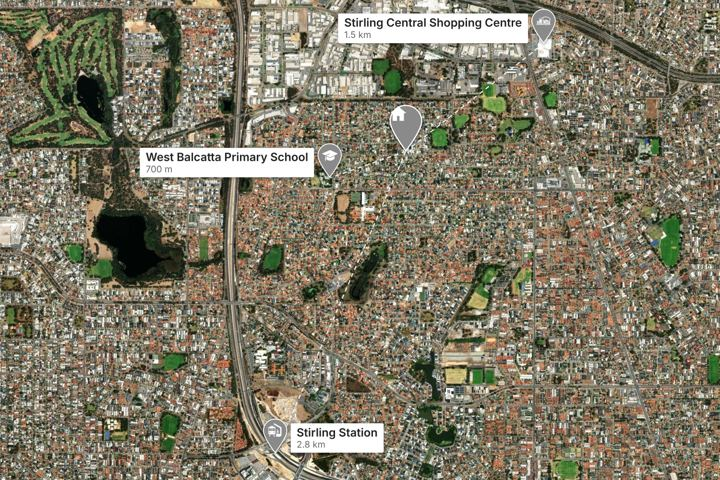
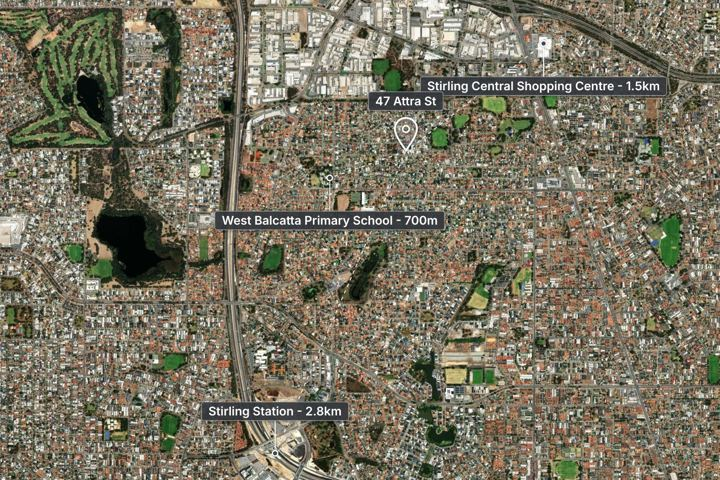
47 Attra St: Simple template, 5 pins per photo + matching satellite map (Jenny)
Claude-Session: https://claude.ai/code/session_01A5qGg2LnJXxgSHoMQFvEEG

diff --git a/aerials/27-oct-2026/index.html b/aerials/27-oct-2026/index.html
@@ -5,4 +5,4 @@ body{margin:0;background:var(--bg);color:var(--fg);font:15px/1.45 system-ui,-app
 header,section{max-width:1400px;margin:auto;padding:18px 16px}h1{font-size:20px;margin:0}h2{font-size:17px;margin:0}header p,section p{color:var(--mut);margin:4px 0 0}
 .ed{margin-left:10px;color:var(--acc);font-weight:600;text-decoration:none}a{color:var(--acc)}
 .g{display:grid;grid-template-columns:repeat(auto-fill,minmax(280px,1fr));gap:8px;margin-top:10px}.g img{width:100%;display:block;border-radius:4px}</style></head>
-<body><header><h1>Drone edits — Tue 27 Oct 2026</h1><p>Tap a photo for full size. <b>Edit</b> opens the job in the <a href="/pins/">editor</a> with all its pins and settings.</p></header><section><h2>218 North Beach Dr, Tuart Hill</h2><p>Stephanie Briers · Professionals · 13 photos <a class="ed" href="/pins/?open=27-oct-2026/218_north_beach_dr">Edit</a><a class="ed" href="/pins/?open=27-oct-2026/218_north_beach_dr__nadir">Edit top-down</a></p><div class="g"><a href="218_north_beach_dr/dji_fly_20261027_150818_0904_1793084705926_photo.jpg?v=1793133531" target="_blank"><img loading="lazy" src="218_north_beach_dr/t/dji_fly_20261027_150818_0904_1793084705926_photo.jpg?v=1793133531" alt=""></a><a href="218_north_beach_dr/dji_fly_20261027_150852_0906_1793084703012_photo.jpg?v=1793133531" target="_blank"><img loading="lazy" src="218_north_beach_dr/t/dji_fly_20261027_150852_0906_1793084703012_photo.jpg?v=1793133531" alt=""></a><a href="218_north_beach_dr/dji_fly_20261027_150910_0907_1793084701634_photo.jpg?v=1793133531" target="_blank"><img loading="lazy" src="218_north_beach_dr/t/dji_fly_20261027_150910_0907_1793084701634_photo.jpg?v=1793133531" alt=""></a><a href="218_north_beach_dr/dji_fly_20261027_150938_0908_1793084700212_photo.jpg?v=1793133531" target="_blank"><img loading="lazy" src="218_north_beach_dr/t/dji_fly_20261027_150938_0908_1793084700212_photo.jpg?v=1793133531" alt=""></a><a href="218_north_beach_dr/dji_fly_20261027_150948_0909_1793084698807_photo.jpg?v=1793133531" target="_blank"><img loading="lazy" src="218_north_beach_dr/t/dji_fly_20261027_150948_0909_1793084698807_photo.jpg?v=1793133531" alt=""></a><a href="218_north_beach_dr/dji_fly_20261027_151000_0910_1793084697396_photo.jpg?v=1793133531" target="_blank"><img loading="lazy" src="218_north_beach_dr/t/dji_fly_20261027_151000_0910_1793084697396_photo.jpg?v=1793133531" alt=""></a><a href="218_north_beach_dr/dji_fly_20261027_151032_0911_1793084695909_photo.jpg?v=1793133531" target="_blank"><img loading="lazy" src="218_north_beach_dr/t/dji_fly_20261027_151032_0911_1793084695909_photo.jpg?v=1793133531" alt=""></a><a href="218_north_beach_dr/dji_fly_20261027_151100_0912_1793084694451_photo.jpg?v=1793133531" target="_blank"><img loading="lazy" src="218_north_beach_dr/t/dji_fly_20261027_151100_0912_1793084694451_photo.jpg?v=1793133531" alt=""></a><a href="218_north_beach_dr/dji_fly_20261027_151114_0913_1793084693051_photo.jpg?v=1793133531" target="_blank"><img loading="lazy" src="218_north_beach_dr/t/dji_fly_20261027_151114_0913_1793084693051_photo.jpg?v=1793133531" alt=""></a><a href="218_north_beach_dr/dji_fly_20261027_151128_0914_1793084691646_photo.jpg?v=1793133531" target="_blank"><img loading="lazy" src="218_north_beach_dr/t/dji_fly_20261027_151128_0914_1793084691646_photo.jpg?v=1793133531" alt=""></a><a href="218_north_beach_dr/dji_fly_20261027_151138_0915_1793084690227_photo.jpg?v=1793133531" target="_blank"><img loading="lazy" src="218_north_beach_dr/t/dji_fly_20261027_151138_0915_1793084690227_photo.jpg?v=1793133531" alt=""></a><a href="218_north_beach_dr/dji_fly_20261027_151152_0916_1793084688823_photo.jpg?v=1793133531" target="_blank"><img loading="lazy" src="218_north_beach_dr/t/dji_fly_20261027_151152_0916_1793084688823_photo.jpg?v=1793133531" alt=""></a><a href="218_north_beach_dr/dji_fly_20261027_151200_0917_1793084687391_photo.jpg?v=1793133531" target="_blank"><img loading="lazy" src="218_north_beach_dr/t/dji_fly_20261027_151200_0917_1793084687391_photo.jpg?v=1793133531" alt=""></a></div></section><section><h2>41 St Kilda Rd, Balga</h2><p>Emma Scharf · Professionals · 9 photos <a class="ed" href="/pins/?open=27-oct-2026/41_st_kilda_rd">Edit</a><a class="ed" href="/pins/?open=27-oct-2026/41_st_kilda_rd__nadir">Edit top-down</a></p><div class="g"><a href="41_st_kilda_rd/dji_fly_20261027_120152_0892_1793084725908_photo.jpg?v=1793133538" target="_blank"><img loading="lazy" src="41_st_kilda_rd/t/dji_fly_20261027_120152_0892_1793084725908_photo.jpg?v=1793133538" alt=""></a><a href="41_st_kilda_rd/dji_fly_20261027_120208_0893_1793084724563_photo.jpg?v=1793133538" target="_blank"><img loading="lazy" src="41_st_kilda_rd/t/dji_fly_20261027_120208_0893_1793084724563_photo.jpg?v=1793133538" alt=""></a><a href="41_st_kilda_rd/dji_fly_20261027_120238_0894_1793084723192_photo.jpg?v=1793133538" target="_blank"><img loading="lazy" src="41_st_kilda_rd/t/dji_fly_20261027_120238_0894_1793084723192_photo.jpg?v=1793133538" alt=""></a><a href="41_st_kilda_rd/dji_fly_20261027_120258_0895_1793084721818_photo.jpg?v=1793133538" target="_blank"><img loading="lazy" src="41_st_kilda_rd/t/dji_fly_20261027_120258_0895_1793084721818_photo.jpg?v=1793133538" alt=""></a><a href="41_st_kilda_rd/dji_fly_20261027_120318_0896_1793084720496_photo.jpg?v=1793133538" target="_blank"><img loading="lazy" src="41_st_kilda_rd/t/dji_fly_20261027_120318_0896_1793084720496_photo.jpg?v=1793133538" alt=""></a><a href="41_st_kilda_rd/dji_fly_20261027_120334_0897_1793084719060_photo.jpg?v=1793133538" target="_blank"><img loading="lazy" src="41_st_kilda_rd/t/dji_fly_20261027_120334_0897_1793084719060_photo.jpg?v=1793133538" alt=""></a><a href="41_st_kilda_rd/dji_fly_20261027_120400_0898_1793084717514_photo.jpg?v=1793133538" target="_blank"><img loading="lazy" src="41_st_kilda_rd/t/dji_fly_20261027_120400_0898_1793084717514_photo.jpg?v=1793133538" alt=""></a><a href="41_st_kilda_rd/dji_fly_20261027_120412_0899_1793084715431_photo.jpg?v=1793133538" target="_blank"><img loading="lazy" src="41_st_kilda_rd/t/dji_fly_20261027_120412_0899_1793084715431_photo.jpg?v=1793133538" alt=""></a><a href="41_st_kilda_rd/dji_fly_20261027_123924_0900_1793084713356_photo.jpg?v=1793133538" target="_blank"><img loading="lazy" src="41_st_kilda_rd/t/dji_fly_20261027_123924_0900_1793084713356_photo.jpg?v=1793133538" alt=""></a></div></section><section><h2>4/17 Forest Hill Dr, Kingsley</h2><p>James Kennedy · Professionals Kingsley · 8 photos <a class="ed" href="/pins/?open=27-oct-2026/4_17_forest_hill_dr">Edit</a></p><div class="g"><a href="4_17_forest_hill_dr/DJI_20261027190736_0143_D.jpg?v=1793169490" target="_blank"><img loading="lazy" src="4_17_forest_hill_dr/t/DJI_20261027190736_0143_D.jpg?v=1793169490" alt=""></a><a href="4_17_forest_hill_dr/DJI_20261027190751_0144_D.jpg?v=1793169490" target="_blank"><img loading="lazy" src="4_17_forest_hill_dr/t/DJI_20261027190751_0144_D.jpg?v=1793169490" alt=""></a><a href="4_17_forest_hill_dr/DJI_20261027190811_0145_D.jpg?v=1793169490" target="_blank"><img loading="lazy" src="4_17_forest_hill_dr/t/DJI_20261027190811_0145_D.jpg?v=1793169490" alt=""></a><a href="4_17_forest_hill_dr/DJI_20261027190831_0146_D.jpg?v=1793169490" target="_blank"><img loading="lazy" src="4_17_forest_hill_dr/t/DJI_20261027190831_0146_D.jpg?v=1793169490" alt=""></a><a href="4_17_forest_hill_dr/DJI_20261027190850_0147_D.jpg?v=1793169490" target="_blank"><img loading="lazy" src="4_17_forest_hill_dr/t/DJI_20261027190850_0147_D.jpg?v=1793169490" alt=""></a><a href="4_17_forest_hill_dr/DJI_20261027190910_0148_D.jpg?v=1793169490" target="_blank"><img loading="lazy" src="4_17_forest_hill_dr/t/DJI_20261027190910_0148_D.jpg?v=1793169490" alt=""></a><a href="4_17_forest_hill_dr/DJI_20261027190924_0149_D.jpg?v=1793169490" target="_blank"><img loading="lazy" src="4_17_forest_hill_dr/t/DJI_20261027190924_0149_D.jpg?v=1793169490" alt=""></a><a href="4_17_forest_hill_dr/DJI_20261027190945_0150_D.jpg?v=1793169490" target="_blank"><img loading="lazy" src="4_17_forest_hill_dr/t/DJI_20261027190945_0150_D.jpg?v=1793169490" alt=""></a></div></section><section><h2>18 Wonderboom Way, Forrestfield</h2><p>David Huynh · Harcourts · 8 photos <a class="ed" href="/pins/?open=27-oct-2026/18_wonderboom_way">Edit</a><a class="ed" href="/pins/?open=27-oct-2026/18_wonderboom_way__nadir">Edit top-down</a></p><div class="g"><a href="18_wonderboom_way/DJI_20261027153704_0025_D.jpg?v=1793169497" target="_blank"><img loading="lazy" src="18_wonderboom_way/t/DJI_20261027153704_0025_D.jpg?v=1793169497" alt=""></a><a href="18_wonderboom_way/DJI_20261027153728_0026_D.jpg?v=1793169497" target="_blank"><img loading="lazy" src="18_wonderboom_way/t/DJI_20261027153728_0026_D.jpg?v=1793169497" alt=""></a><a href="18_wonderboom_way/DJI_20261027153750_0027_D.jpg?v=1793169497" target="_blank"><img loading="lazy" src="18_wonderboom_way/t/DJI_20261027153750_0027_D.jpg?v=1793169497" alt=""></a><a href="18_wonderboom_way/DJI_20261027153805_0028_D.jpg?v=1793169497" target="_blank"><img loading="lazy" src="18_wonderboom_way/t/DJI_20261027153805_0028_D.jpg?v=1793169497" alt=""></a><a href="18_wonderboom_way/DJI_20261027153822_0029_D.jpg?v=1793169497" target="_blank"><img loading="lazy" src="18_wonderboom_way/t/DJI_20261027153822_0029_D.jpg?v=1793169497" alt=""></a><a href="18_wonderboom_way/DJI_20261027153841_0030_D.jpg?v=1793169497" target="_blank"><img loading="lazy" src="18_wonderboom_way/t/DJI_20261027153841_0030_D.jpg?v=1793169497" alt=""></a><a href="18_wonderboom_way/DJI_20261027153857_0031_D.jpg?v=1793169497" target="_blank"><img loading="lazy" src="18_wonderboom_way/t/DJI_20261027153857_0031_D.jpg?v=1793169497" alt=""></a><a href="18_wonderboom_way/DJI_20261027153910_0032_D.jpg?v=1793169497" target="_blank"><img loading="lazy" src="18_wonderboom_way/t/DJI_20261027153910_0032_D.jpg?v=1793169497" alt=""></a></div></section><section><h2>47 Attra St, Balcatta</h2><p>Jenny Fry · City to Surf · 5 photos <a class="ed" href="/pins/?open=27-oct-2026/47_attra_st">Edit</a><a class="ed" href="/pins/?open=27-oct-2026/47_attra_st__nadir">Edit top-down</a></p><div class="g"><a href="47_attra_st/DJI_20261027201407_0152_D.jpg?v=1793186544" target="_blank"><img loading="lazy" src="47_attra_st/t/DJI_20261027201407_0152_D.jpg?v=1793186544" alt=""></a><a href="47_attra_st/DJI_20261027201444_0154_D.jpg?v=1793186543" target="_blank"><img loading="lazy" src="47_attra_st/t/DJI_20261027201444_0154_D.jpg?v=1793186543" alt=""></a><a href="47_attra_st/DJI_20261027201539_0158_D.jpg?v=1793186543" target="_blank"><img loading="lazy" src="47_attra_st/t/DJI_20261027201539_0158_D.jpg?v=1793186543" alt=""></a><a href="47_attra_st/DJI_20261027201608_0160_D.jpg?v=1793186543" target="_blank"><img loading="lazy" src="47_attra_st/t/DJI_20261027201608_0160_D.jpg?v=1793186543" alt=""></a><a href="47_attra_st/satellite_map.jpg?v=1793186543" target="_blank"><img loading="lazy" src="47_attra_st/t/satellite_map.jpg?v=1793186543" alt=""></a></div></section></body></html>
+<body><header><h1>Drone edits — Tue 27 Oct 2026</h1><p>Tap a photo for full size. <b>Edit</b> opens the job in the <a href="/pins/">editor</a> with all its pins and settings.</p></header><section><h2>218 North Beach Dr, Tuart Hill</h2><p>Stephanie Briers · Professionals · 13 photos <a class="ed" href="/pins/?open=27-oct-2026/218_north_beach_dr">Edit</a><a class="ed" href="/pins/?open=27-oct-2026/218_north_beach_dr__nadir">Edit top-down</a></p><div class="g"><a href="218_north_beach_dr/dji_fly_20261027_150818_0904_1793084705926_photo.jpg?v=1793133531" target="_blank"><img loading="lazy" src="218_north_beach_dr/t/dji_fly_20261027_150818_0904_1793084705926_photo.jpg?v=1793133531" alt=""></a><a href="218_north_beach_dr/dji_fly_20261027_150852_0906_1793084703012_photo.jpg?v=1793133531" target="_blank"><img loading="lazy" src="218_north_beach_dr/t/dji_fly_20261027_150852_0906_1793084703012_photo.jpg?v=1793133531" alt=""></a><a href="218_north_beach_dr/dji_fly_20261027_150910_0907_1793084701634_photo.jpg?v=1793133531" target="_blank"><img loading="lazy" src="218_north_beach_dr/t/dji_fly_20261027_150910_0907_1793084701634_photo.jpg?v=1793133531" alt=""></a><a href="218_north_beach_dr/dji_fly_20261027_150938_0908_1793084700212_photo.jpg?v=1793133531" target="_blank"><img loading="lazy" src="218_north_beach_dr/t/dji_fly_20261027_150938_0908_1793084700212_photo.jpg?v=1793133531" alt=""></a><a href="218_north_beach_dr/dji_fly_20261027_150948_0909_1793084698807_photo.jpg?v=1793133531" target="_blank"><img loading="lazy" src="218_north_beach_dr/t/dji_fly_20261027_150948_0909_1793084698807_photo.jpg?v=1793133531" alt=""></a><a href="218_north_beach_dr/dji_fly_20261027_151000_0910_1793084697396_photo.jpg?v=1793133531" target="_blank"><img loading="lazy" src="218_north_beach_dr/t/dji_fly_20261027_151000_0910_1793084697396_photo.jpg?v=1793133531" alt=""></a><a href="218_north_beach_dr/dji_fly_20261027_151032_0911_1793084695909_photo.jpg?v=1793133531" target="_blank"><img loading="lazy" src="218_north_beach_dr/t/dji_fly_20261027_151032_0911_1793084695909_photo.jpg?v=1793133531" alt=""></a><a href="218_north_beach_dr/dji_fly_20261027_151100_0912_1793084694451_photo.jpg?v=1793133531" target="_blank"><img loading="lazy" src="218_north_beach_dr/t/dji_fly_20261027_151100_0912_1793084694451_photo.jpg?v=1793133531" alt=""></a><a href="218_north_beach_dr/dji_fly_20261027_151114_0913_1793084693051_photo.jpg?v=1793133531" target="_blank"><img loading="lazy" src="218_north_beach_dr/t/dji_fly_20261027_151114_0913_1793084693051_photo.jpg?v=1793133531" alt=""></a><a href="218_north_beach_dr/dji_fly_20261027_151128_0914_1793084691646_photo.jpg?v=1793133531" target="_blank"><img loading="lazy" src="218_north_beach_dr/t/dji_fly_20261027_151128_0914_1793084691646_photo.jpg?v=1793133531" alt=""></a><a href="218_north_beach_dr/dji_fly_20261027_151138_0915_1793084690227_photo.jpg?v=1793133531" target="_blank"><img loading="lazy" src="218_north_beach_dr/t/dji_fly_20261027_151138_0915_1793084690227_photo.jpg?v=1793133531" alt=""></a><a href="218_north_beach_dr/dji_fly_20261027_151152_0916_1793084688823_photo.jpg?v=1793133531" target="_blank"><img loading="lazy" src="218_north_beach_dr/t/dji_fly_20261027_151152_0916_1793084688823_photo.jpg?v=1793133531" alt=""></a><a href="218_north_beach_dr/dji_fly_20261027_151200_0917_1793084687391_photo.jpg?v=1793133531" target="_blank"><img loading="lazy" src="218_north_beach_dr/t/dji_fly_20261027_151200_0917_1793084687391_photo.jpg?v=1793133531" alt=""></a></div></section><section><h2>41 St Kilda Rd, Balga</h2><p>Emma Scharf · Professionals · 9 photos <a class="ed" href="/pins/?open=27-oct-2026/41_st_kilda_rd">Edit</a><a class="ed" href="/pins/?open=27-oct-2026/41_st_kilda_rd__nadir">Edit top-down</a></p><div class="g"><a href="41_st_kilda_rd/dji_fly_20261027_120152_0892_1793084725908_photo.jpg?v=1793133538" target="_blank"><img loading="lazy" src="41_st_kilda_rd/t/dji_fly_20261027_120152_0892_1793084725908_photo.jpg?v=1793133538" alt=""></a><a href="41_st_kilda_rd/dji_fly_20261027_120208_0893_1793084724563_photo.jpg?v=1793133538" target="_blank"><img loading="lazy" src="41_st_kilda_rd/t/dji_fly_20261027_120208_0893_1793084724563_photo.jpg?v=1793133538" alt=""></a><a href="41_st_kilda_rd/dji_fly_20261027_120238_0894_1793084723192_photo.jpg?v=1793133538" target="_blank"><img loading="lazy" src="41_st_kilda_rd/t/dji_fly_20261027_120238_0894_1793084723192_photo.jpg?v=1793133538" alt=""></a><a href="41_st_kilda_rd/dji_fly_20261027_120258_0895_1793084721818_photo.jpg?v=1793133538" target="_blank"><img loading="lazy" src="41_st_kilda_rd/t/dji_fly_20261027_120258_0895_1793084721818_photo.jpg?v=1793133538" alt=""></a><a href="41_st_kilda_rd/dji_fly_20261027_120318_0896_1793084720496_photo.jpg?v=1793133538" target="_blank"><img loading="lazy" src="41_st_kilda_rd/t/dji_fly_20261027_120318_0896_1793084720496_photo.jpg?v=1793133538" alt=""></a><a href="41_st_kilda_rd/dji_fly_20261027_120334_0897_1793084719060_photo.jpg?v=1793133538" target="_blank"><img loading="lazy" src="41_st_kilda_rd/t/dji_fly_20261027_120334_0897_1793084719060_photo.jpg?v=1793133538" alt=""></a><a href="41_st_kilda_rd/dji_fly_20261027_120400_0898_1793084717514_photo.jpg?v=1793133538" target="_blank"><img loading="lazy" src="41_st_kilda_rd/t/dji_fly_20261027_120400_0898_1793084717514_photo.jpg?v=1793133538" alt=""></a><a href="41_st_kilda_rd/dji_fly_20261027_120412_0899_1793084715431_photo.jpg?v=1793133538" target="_blank"><img loading="lazy" src="41_st_kilda_rd/t/dji_fly_20261027_120412_0899_1793084715431_photo.jpg?v=1793133538" alt=""></a><a href="41_st_kilda_rd/dji_fly_20261027_123924_0900_1793084713356_photo.jpg?v=1793133538" target="_blank"><img loading="lazy" src="41_st_kilda_rd/t/dji_fly_20261027_123924_0900_1793084713356_photo.jpg?v=1793133538" alt=""></a></div></section><section><h2>4/17 Forest Hill Dr, Kingsley</h2><p>James Kennedy · Professionals Kingsley · 8 photos <a class="ed" href="/pins/?open=27-oct-2026/4_17_forest_hill_dr">Edit</a></p><div class="g"><a href="4_17_forest_hill_dr/DJI_20261027190736_0143_D.jpg?v=1793169490" target="_blank"><img loading="lazy" src="4_17_forest_hill_dr/t/DJI_20261027190736_0143_D.jpg?v=1793169490" alt=""></a><a href="4_17_forest_hill_dr/DJI_20261027190751_0144_D.jpg?v=1793169490" target="_blank"><img loading="lazy" src="4_17_forest_hill_dr/t/DJI_20261027190751_0144_D.jpg?v=1793169490" alt=""></a><a href="4_17_forest_hill_dr/DJI_20261027190811_0145_D.jpg?v=1793169490" target="_blank"><img loading="lazy" src="4_17_forest_hill_dr/t/DJI_20261027190811_0145_D.jpg?v=1793169490" alt=""></a><a href="4_17_forest_hill_dr/DJI_20261027190831_0146_D.jpg?v=1793169490" target="_blank"><img loading="lazy" src="4_17_forest_hill_dr/t/DJI_20261027190831_0146_D.jpg?v=1793169490" alt=""></a><a href="4_17_forest_hill_dr/DJI_20261027190850_0147_D.jpg?v=1793169490" target="_blank"><img loading="lazy" src="4_17_forest_hill_dr/t/DJI_20261027190850_0147_D.jpg?v=1793169490" alt=""></a><a href="4_17_forest_hill_dr/DJI_20261027190910_0148_D.jpg?v=1793169490" target="_blank"><img loading="lazy" src="4_17_forest_hill_dr/t/DJI_20261027190910_0148_D.jpg?v=1793169490" alt=""></a><a href="4_17_forest_hill_dr/DJI_20261027190924_0149_D.jpg?v=1793169490" target="_blank"><img loading="lazy" src="4_17_forest_hill_dr/t/DJI_20261027190924_0149_D.jpg?v=1793169490" alt=""></a><a href="4_17_forest_hill_dr/DJI_20261027190945_0150_D.jpg?v=1793169490" target="_blank"><img loading="lazy" src="4_17_forest_hill_dr/t/DJI_20261027190945_0150_D.jpg?v=1793169490" alt=""></a></div></section><section><h2>18 Wonderboom Way, Forrestfield</h2><p>David Huynh · Harcourts · 8 photos <a class="ed" href="/pins/?open=27-oct-2026/18_wonderboom_way">Edit</a><a class="ed" href="/pins/?open=27-oct-2026/18_wonderboom_way__nadir">Edit top-down</a></p><div class="g"><a href="18_wonderboom_way/DJI_20261027153704_0025_D.jpg?v=1793169497" target="_blank"><img loading="lazy" src="18_wonderboom_way/t/DJI_20261027153704_0025_D.jpg?v=1793169497" alt=""></a><a href="18_wonderboom_way/DJI_20261027153728_0026_D.jpg?v=1793169497" target="_blank"><img loading="lazy" src="18_wonderboom_way/t/DJI_20261027153728_0026_D.jpg?v=1793169497" alt=""></a><a href="18_wonderboom_way/DJI_20261027153750_0027_D.jpg?v=1793169497" target="_blank"><img loading="lazy" src="18_wonderboom_way/t/DJI_20261027153750_0027_D.jpg?v=1793169497" alt=""></a><a href="18_wonderboom_way/DJI_20261027153805_0028_D.jpg?v=1793169497" target="_blank"><img loading="lazy" src="18_wonderboom_way/t/DJI_20261027153805_0028_D.jpg?v=1793169497" alt=""></a><a href="18_wonderboom_way/DJI_20261027153822_0029_D.jpg?v=1793169497" target="_blank"><img loading="lazy" src="18_wonderboom_way/t/DJI_20261027153822_0029_D.jpg?v=1793169497" alt=""></a><a href="18_wonderboom_way/DJI_20261027153841_0030_D.jpg?v=1793169497" target="_blank"><img loading="lazy" src="18_wonderboom_way/t/DJI_20261027153841_0030_D.jpg?v=1793169497" alt=""></a><a href="18_wonderboom_way/DJI_20261027153857_0031_D.jpg?v=1793169497" target="_blank"><img loading="lazy" src="18_wonderboom_way/t/DJI_20261027153857_0031_D.jpg?v=1793169497" alt=""></a><a href="18_wonderboom_way/DJI_20261027153910_0032_D.jpg?v=1793169497" target="_blank"><img loading="lazy" src="18_wonderboom_way/t/DJI_20261027153910_0032_D.jpg?v=1793169497" alt=""></a></div></section><section><h2>47 Attra St, Balcatta</h2><p>Jenny Fry · City to Surf · 5 photos <a class="ed" href="/pins/?open=27-oct-2026/47_attra_st">Edit</a><a class="ed" href="/pins/?open=27-oct-2026/47_attra_st__nadir">Edit top-down</a></p><div class="g"><a href="47_attra_st/DJI_20261027201407_0152_D.jpg?v=1793199157" target="_blank"><img loading="lazy" src="47_attra_st/t/DJI_20261027201407_0152_D.jpg?v=1793199157" alt=""></a><a href="47_attra_st/DJI_20261027201444_0154_D.jpg?v=1793199156" target="_blank"><img loading="lazy" src="47_attra_st/t/DJI_20261027201444_0154_D.jpg?v=1793199156" alt=""></a><a href="47_attra_st/DJI_20261027201539_0158_D.jpg?v=1793199156" target="_blank"><img loading="lazy" src="47_attra_st/t/DJI_20261027201539_0158_D.jpg?v=1793199156" alt=""></a><a href="47_attra_st/DJI_20261027201608_0160_D.jpg?v=1793199156" target="_blank"><img loading="lazy" src="47_attra_st/t/DJI_20261027201608_0160_D.jpg?v=1793199156" alt=""></a><a href="47_attra_st/satellite_map.jpg?v=1793199156" target="_blank"><img loading="lazy" src="47_attra_st/t/satellite_map.jpg?v=1793199156" alt=""></a></div></section></body></html>

diff --git a/pins/index.html b/pins/index.html
@@ -1125,7 +1125,7 @@ function tidySides(p){
   for (let it=0; it<2; it++) for (const pin of list){ if (pin.layoutLocked) continue; place(pin, p.pins.filter(q=>q!==pin).map(q=>pinParts(p,q))); }
   // flag anything still overlapping so the editor can drop a place (the finals never have overlapping labels)
   p.pins.forEach(a=>{ a.clash = false; if (!a.house){ const m = 0.012*p.h; for (const r of pinParts(p,a)) if (r[0] < m || r[2] > p.w-m || r[1] < 1.6*m) a.clash = true; } });   // any part touching the frame edge counts as a clash   // label hanging off the frame counts as a clash too
-  for (const a of p.pins) for (const b of p.pins){ if (a===b) continue; let o=0; for (const x of pinParts(p,a)) for (const y of pinParts(p,b)) { const ox = Math.min(x[2],y[2])-Math.max(x[0],y[0]), oy = Math.min(x[3],y[3])-Math.max(x[1],y[1]); if (ox > -30*s && oy > -30*s) o++; } if (o){ a.clash = b.clash = true; } }
+  for (const a of p.pins) for (const b of p.pins){ if (a===b) continue; let o=0; for (const x of pinParts(p,a)) for (const y of pinParts(p,b)) { const ox = Math.min(x[2],y[2])-Math.max(x[0],y[0]), oy = Math.min(x[3],y[3])-Math.max(x[1],y[1]); if (A.kind==="simple" ? (ox > 2*s && oy > 2*s) : (ox > -30*s && oy > -30*s)) o++;   /* simple: thin lines may pass close to other labels, as in the reference; only real overlaps count */ } if (o){ a.clash = b.clash = true; } }
 }
 
 // ================= scene =================
